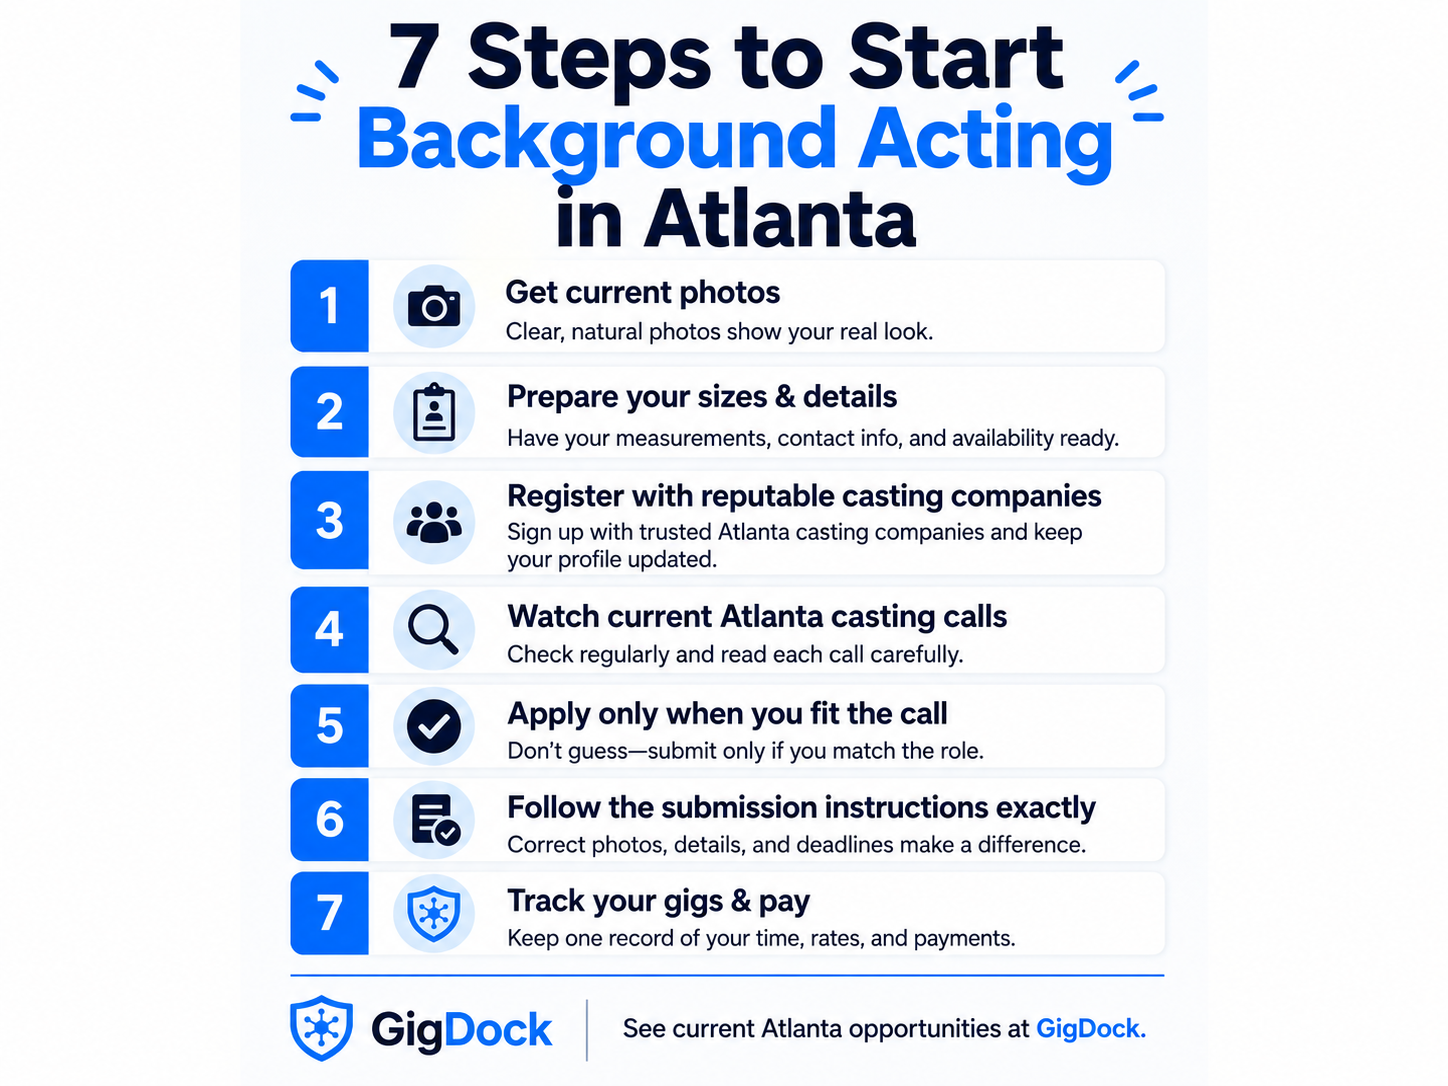
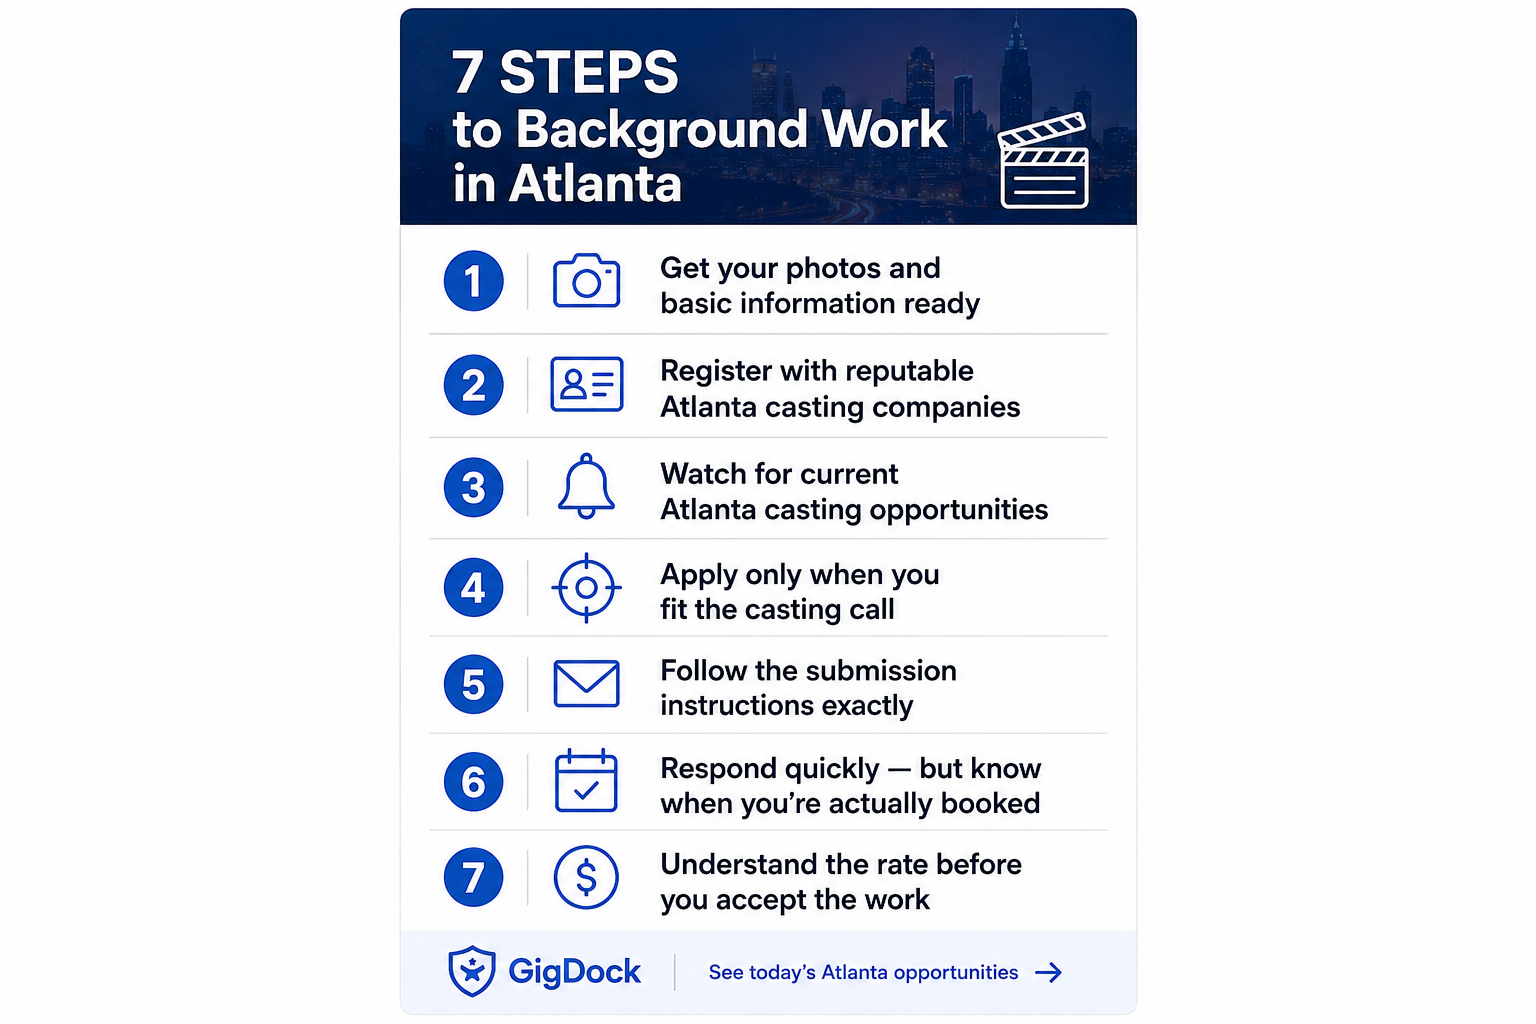
Replace 7-steps infographic with corrected version matching the article steps
Claude-Session: https://claude.ai/code/session_01WzGiwxk3aLHFqGARoLBHeX

Changed region(s): [[0.1865, 0.0, 0.808, 1.0]]

diff --git a/src/app/guides/how-to-get-background-acting-work-in-atlanta/page.tsx b/src/app/guides/how-to-get-background-acting-work-in-atlanta/page.tsx
@@ -56,10 +56,10 @@ function OL({ items }: { items: string[] }) {
 const A = ({ href, children }: { href: string; children: React.ReactNode }) => (
   <Link href={href} className="font-medium text-blue-600 hover:underline dark:text-blue-400">{children}</Link>
 );
-function Figure({ src, alt }: { src: string; alt: string }) {
+function Figure({ src, alt, w = 1448, h = 1086 }: { src: string; alt: string; w?: number; h?: number }) {
   return (
     <figure className="mt-6">
-      <Image src={src} alt={alt} width={1448} height={1086} sizes="(max-width: 672px) 100vw, 672px"
+      <Image src={src} alt={alt} width={w} height={h} sizes="(max-width: 672px) 100vw, 672px"
         className="w-full h-auto rounded-xl border border-zinc-200 dark:border-zinc-800" />
     </figure>
   );
@@ -106,7 +106,8 @@ function Guide({ pulse }: { pulse: { callsTracked: number; castingSources: numbe
       <P className="text-sm text-zinc-500 dark:text-zinc-400"><em>Related guide coming soon: Stand-In vs. Photo Double vs. Background Actor.</em></P>
 
       <H2>How to start getting background acting work in Atlanta</H2>
-      <Figure src="/guides/atlanta-7-steps-infographic.png" alt="7 steps to start background acting in Atlanta: get current photos, prepare your sizes and details, register with reputable casting companies, watch current Atlanta casting calls, apply only when you fit the call, follow the submission instructions exactly, and track your gigs and pay." />
+      <Figure src="/guides/atlanta-7-steps-infographic.png" w={1536} h={1024}
+        alt="7 steps to background work in Atlanta: get your photos and basic information ready, register with reputable Atlanta casting companies, watch for current Atlanta casting opportunities, apply only when you fit the casting call, follow the submission instructions exactly, respond quickly but know when you're actually booked, and understand the rate before you accept the work." />
 
       <H3>Step 1: Get your photos and basic information ready</H3>
       <P>You usually do not need expensive professional headshots to begin pursuing general background work. What casting teams typically need first is an accurate picture of what you look like right now. Have at least:</P>
